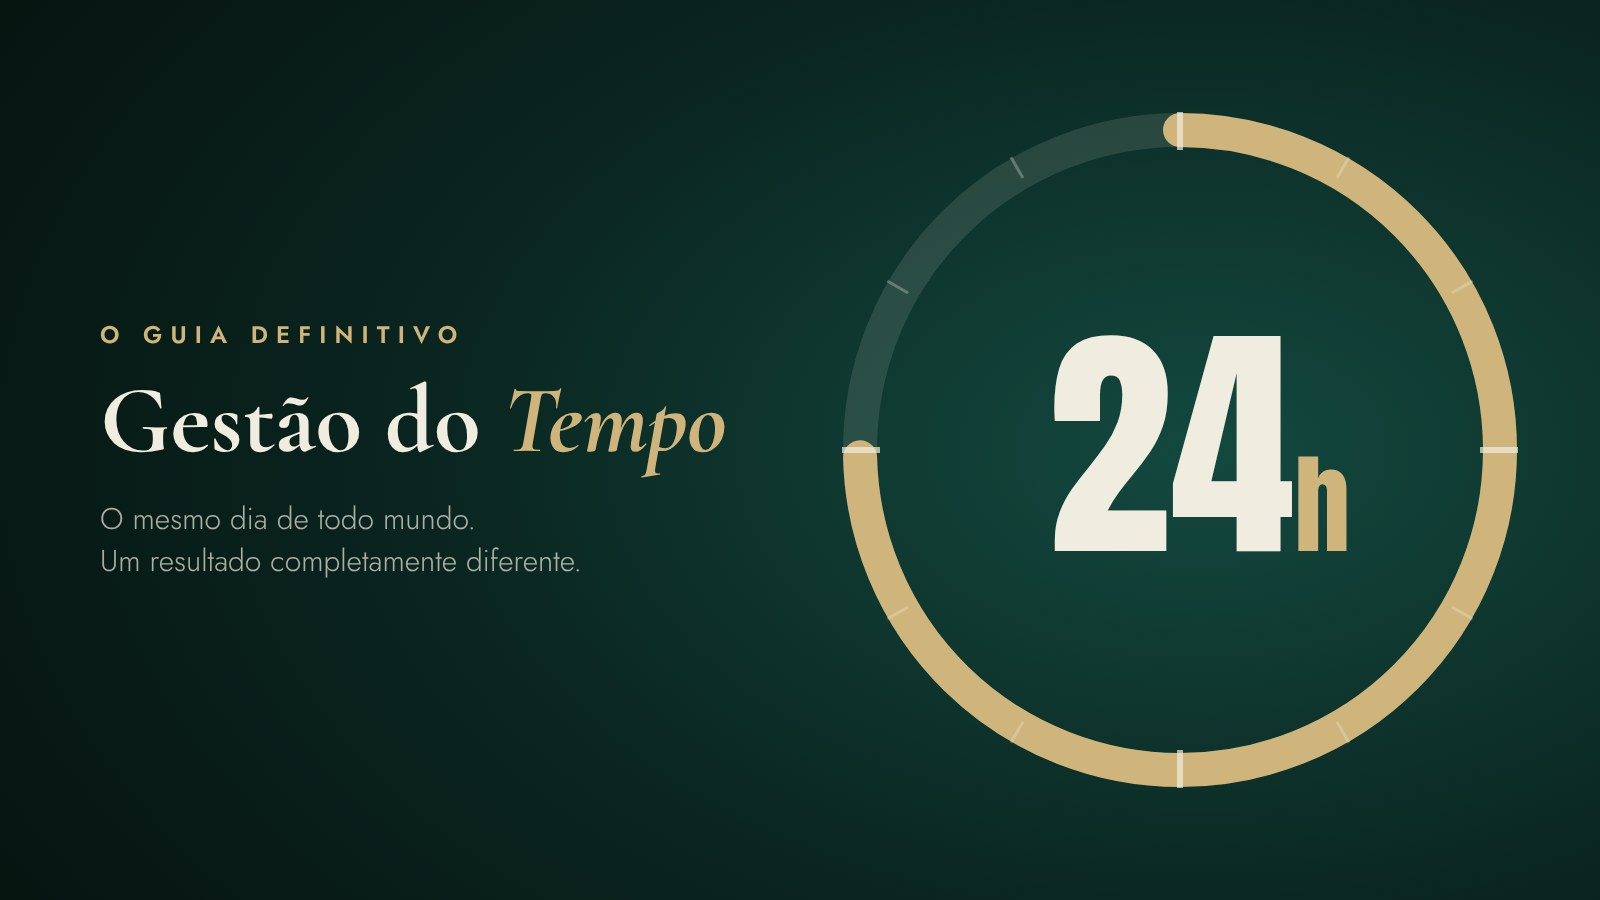
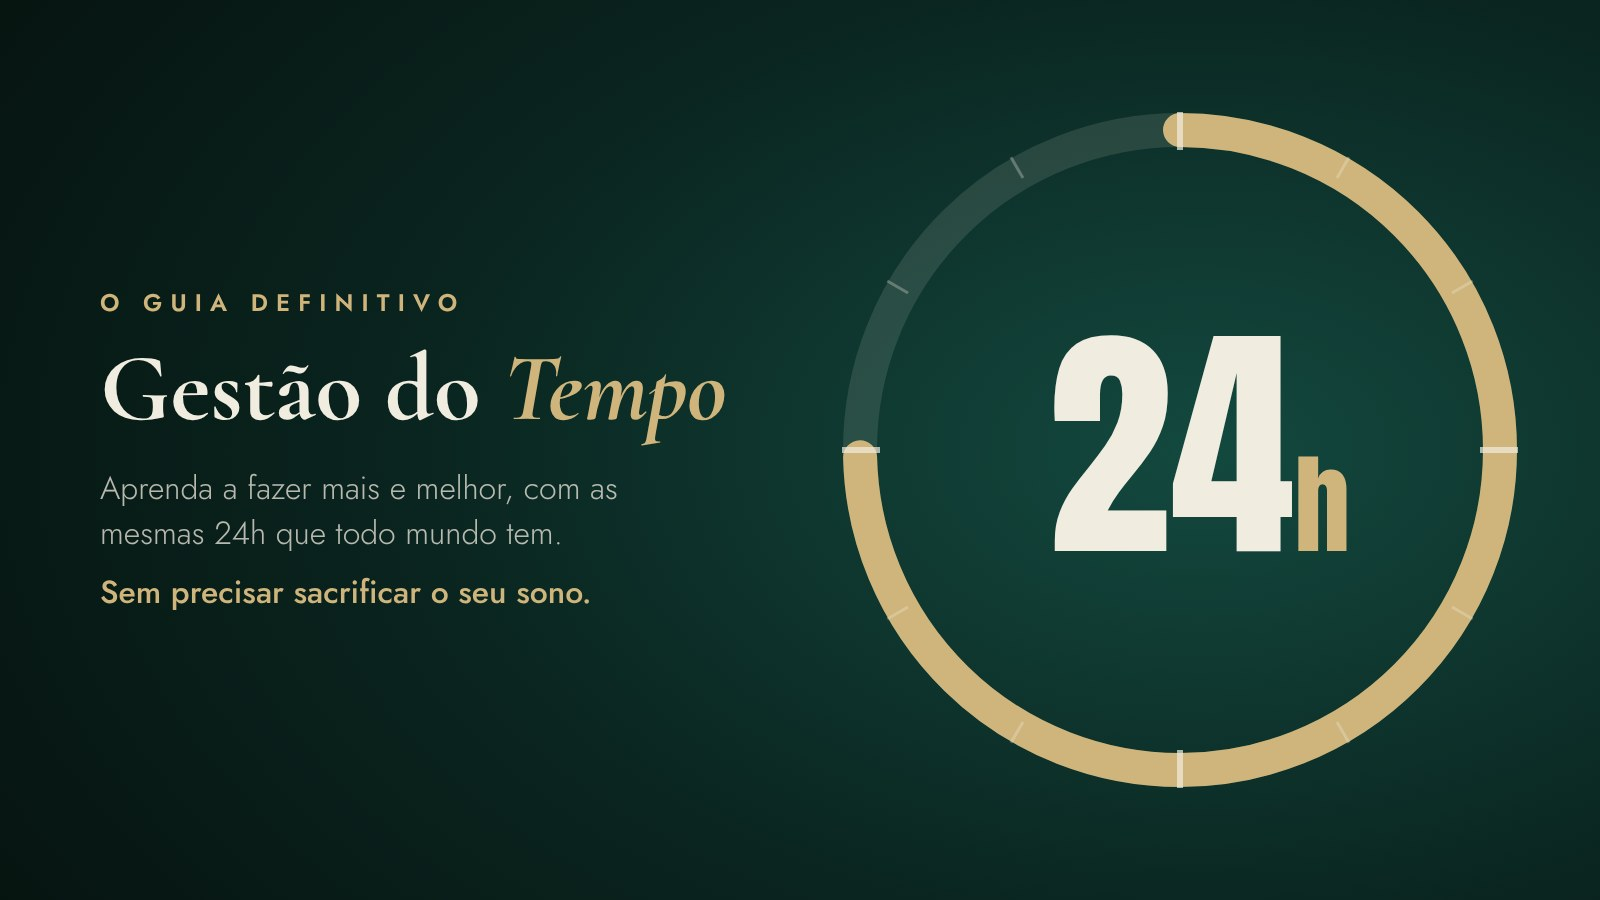
Bio: novo texto no card do Guia de Gestão do Tempo
Claude-Session: https://claude.ai/code/session_01UUbkJ5xZCDyko2MMtRr4f5

Changed region(s): [[0.0625, 0.3111, 0.4688, 0.5289], [0.0625, 0.5289, 0.375, 0.6844]]

diff --git a/bio-nova.html b/bio-nova.html
@@ -234,7 +234,7 @@ function trk(label){try{if(window.fbq)fbq('trackCustom','BioClick',{item:label})
         <div class="pbody"><b>Ganhe Dinheiro Criando o Seu Primeiro Aplicativo Próprio Com IA</b><span class="pgo">Quero acessar →</span></div>
       </a>
       <a class="prod" href="https://pay.hotmart.com/J98625033H" onclick="trk('produto_gestao-tempo')">
-        <div class="pimg"><img loading="lazy" src="https://lp-estrategy.github.io/zenite/produtos/produto-gestao-tempo.jpg" alt="O Guia Definitivo para Gestão do Tempo"></div>
+        <div class="pimg"><img loading="lazy" src="https://lp-estrategy.github.io/zenite/produtos/produto-gestao-tempo.jpg?v=2" alt="O Guia Definitivo para Gestão do Tempo"></div>
         <div class="pbody"><b>O Guia Definitivo para Gestão do Tempo</b><span class="pgo">Quero acessar →</span></div>
       </a>
       <a class="prod" href="https://pay.hotmart.com/G98498766P" onclick="trk('produto_rico')">
